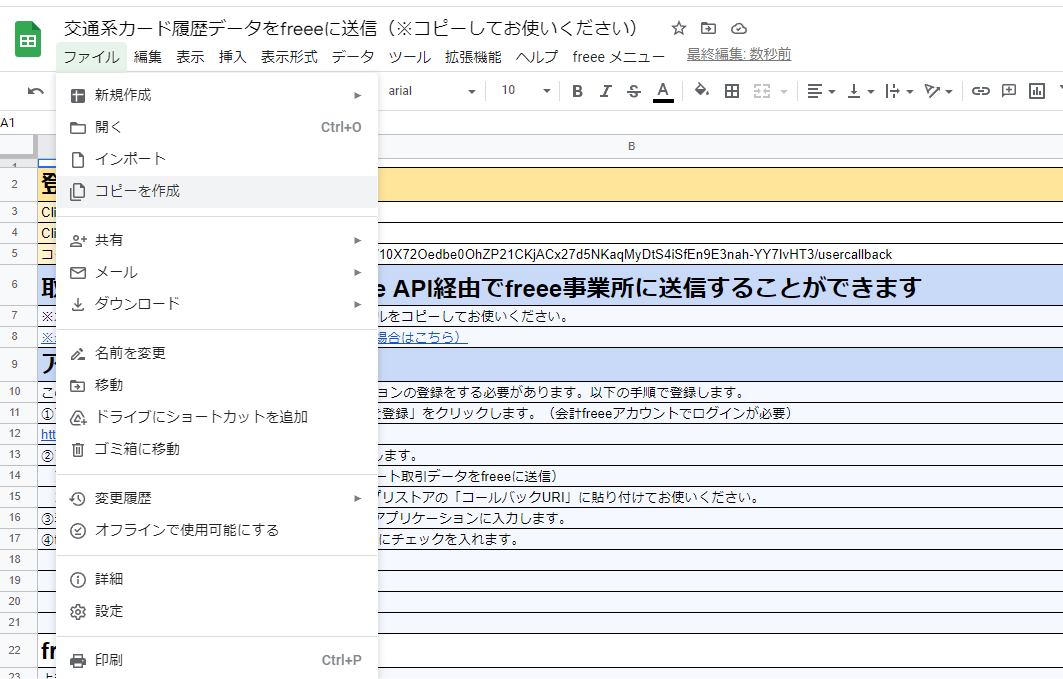
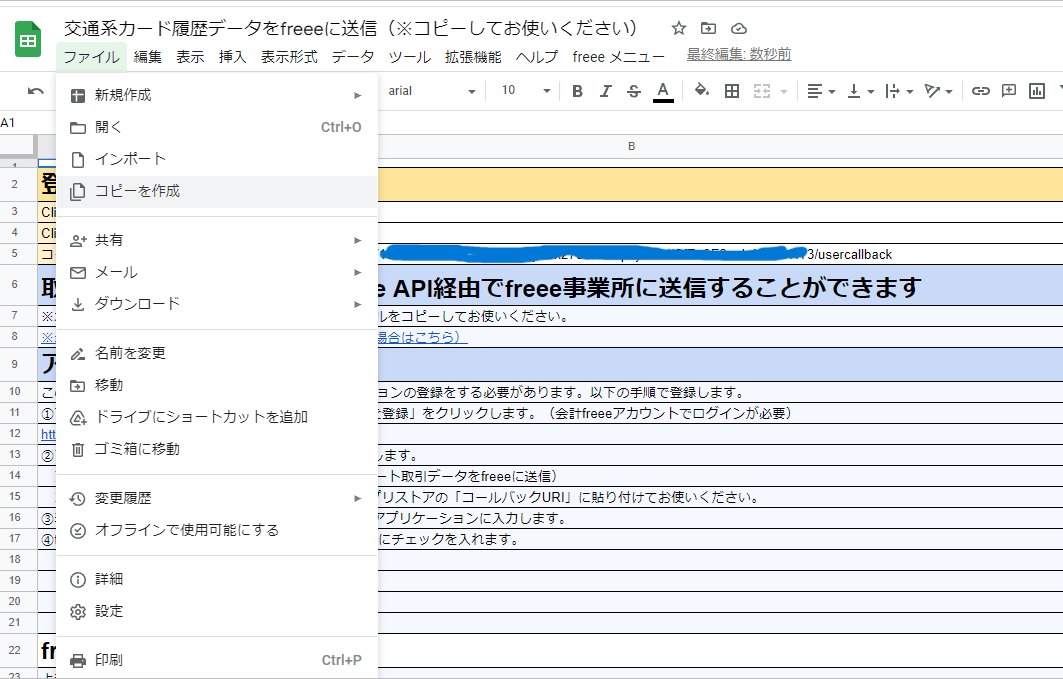
画像修正など

Changed region(s): [[0.0, 0.9897, 1.0, 1.0], [0.3415, 0.3402, 0.7761, 0.4021]]

diff --git a/content/blog/manaca_freee/index.md b/content/blog/manaca_freee/index.md
@@ -15,7 +15,6 @@ tags: ["Ferica","freee","GAS"]
 モバイルSuicaにすれば、連携アプリがあるのですが、各交通系カードのポイント還元が使えなくなったりします。  
 自分の使っているmanacaは、名古屋市営地下鉄や市バスの利用だと10%~30%もの還元を受けることができるので、モバイルSuicaに乗り換えるのは。。。
 
-
 ## 必要なもの
 
 1. freee会計のアカウント（アプリを設定するのに管理者が権限が必要だと思います）  
@@ -121,7 +120,7 @@ https://app.secure.freee.co.jp/developers/applications
 ![Image from Gyazo](721b06b07ad0654f10afc071d3ce033b.png)
 
 ↓スプレッドシート画面
-![Image from Gyazo](c64e9db0b21303f289a115d84d8f4eb2.png)
+![Image from Gyazo](8d628baf8a5a401506aa3d924de5ffd4.png)
 
 次は、アプリにどのようなデータへのアクセスを許可するかを設定します。  
 このアプリでは、以下の権限が必要です。  
@@ -268,10 +267,16 @@ freee会計を開いて、交通系カードの明細に履歴が追加されて
 これで、スマホアプリから履歴をエクスポートしておけば１時間後ぐらいには、freeeに同期されるようになります。
 
 
-## 確認はしていないけどできるのでは？
+## 確認はしていないけど、このスクリプトでできそうなこと
 
 1. 複数カードの管理
     freee会計の口座名と、スマホアプリに登録するカード名を紐づけているので、複数のカードを読み取って複数の口座で管理できるような気がします。
 1. 交通系以外の電子マネーカード
     利用させてもらったスマホアプリ「電子マネーICカード残高確認」は、交通系カード以外のカードの管理もできるので、エクスポートするフォーマットが同じであれば、交通系以外のカードもfreeeと同期出来るかも？
   
+## 日々の作業をITの力でがんばらないようにする
+
+今回、GoogleAppScript(GAS)を使って、日々のちょっとした手間をなくしてみました。  
+
+ガンバラナイでは、freee会計のAPIや、GASなどを使って、日常の業務の手間を減らすことができます。  
+お困りのことなどありましたら、ご相談ください。
